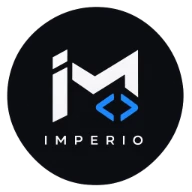
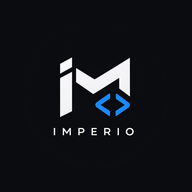
fix(pwa): iconos full-bleed sin bordes blancos + badge de notificacion monocromo

diff --git a/frontend/src/services/notificationManager.ts b/frontend/src/services/notificationManager.ts
@@ -98,8 +98,8 @@ class NotificationManager {
     async showLocalNotification(title, options = {}) {
         const origin = window.location.origin;
         const defaultOptions = {
-            icon: `${origin}/notification-icon.png?v=4`,
-            badge: `${origin}/notification-badge.png?v=4`,
+            icon: `${origin}/notification-icon.png?v=5`,
+            badge: `${origin}/notification-badge.png?v=5`,
             vibrate: [100, 50, 100],
             data: {
                 dateOfArrival: Date.now(),

diff --git a/frontend/public/sw.js b/frontend/public/sw.js
@@ -98,8 +98,8 @@ self.addEventListener('push', (event) => {
   const origin = self.location.origin;
   const options = {
     body: data.body,
-    icon: `${origin}/notification-icon.png?v=8`,
-    badge: `${origin}/notification-badge.png?v=8`,
+    icon: `${origin}/notification-icon.png?v=9`,
+    badge: `${origin}/notification-badge.png?v=9`,
     vibrate: [100, 50, 100],
     data: data.data || {},
     actions: [
